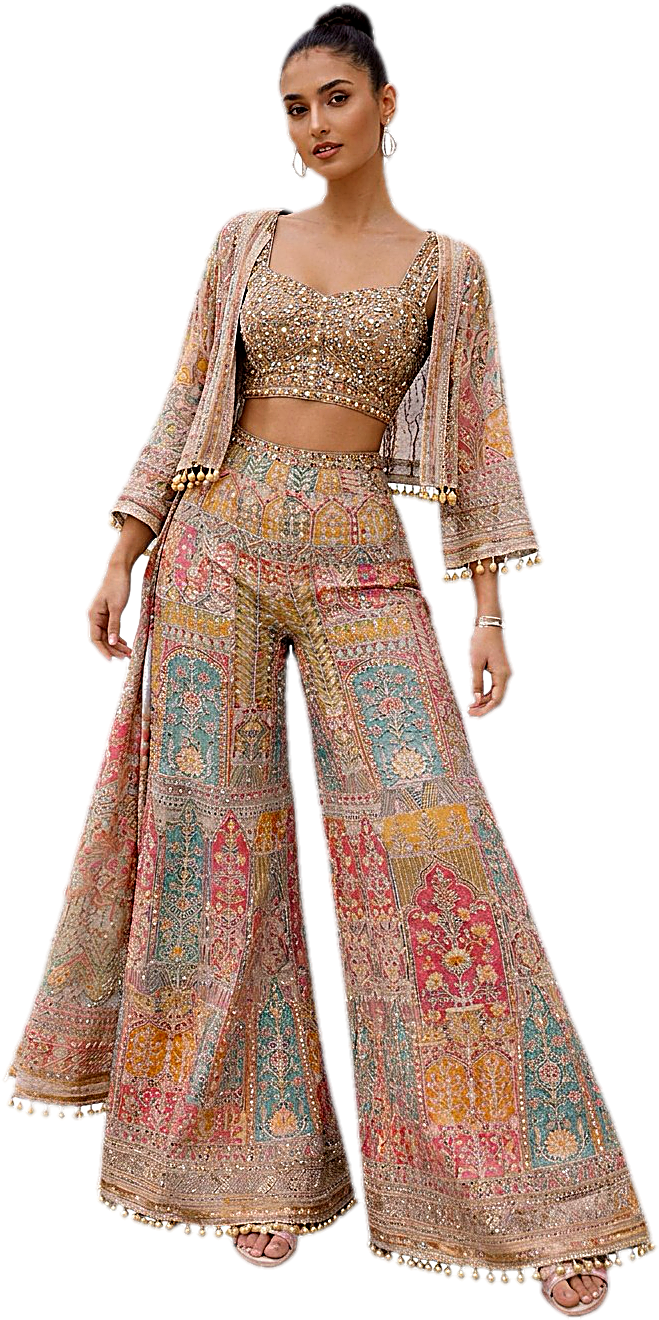
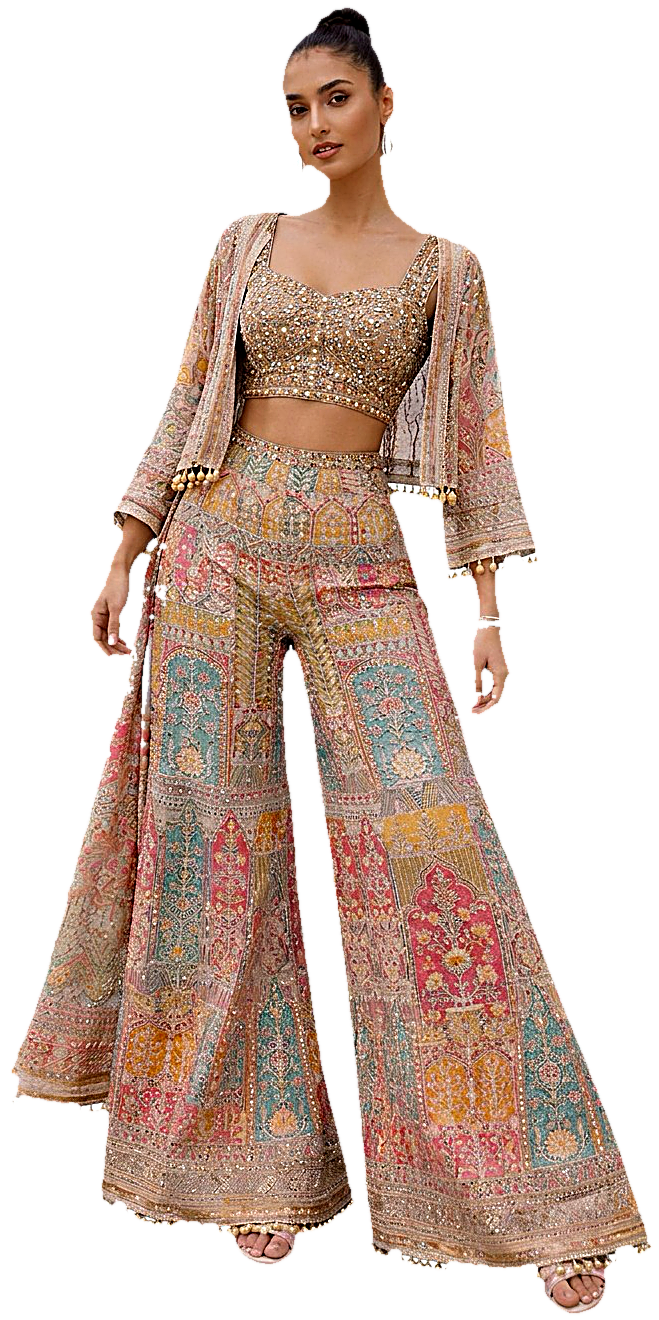
Fashion: clean cutout halos, slow the stroke, quicken the slider
- The style carousel's cut-outs each carried a soft halo of their original
  studio background at near-full alpha, which read as pale vertical bands
  beside the model on a cold load. The mattes were oversized and feathered
  rather than tight to the subject, so the fix is on the alpha: threshold at
  250 and re-feather by a sub-pixel blur. Erosion was tried and rejected —
  even two passes started eating the headphones and drawstrings.
- ScrollStroke's pin runs over 340svh rather than 210, so the line is drawn
  across roughly half again as much scrolling and the tip can be followed.
- LuminaSlider's handover drops from 2.5s to 1.5s.

diff --git a/components/LuminaSlider.js b/components/LuminaSlider.js
@@ -69,7 +69,7 @@ const small = (src) => src.replace(/\.jpg$/, "-sm.jpg");
 /* how long the glass takes to cross the box, and how long a slide is held
    once it has arrived. the pair is the full cycle — the progress line under
    each title runs for the hold only, as in the original. */
-const CROSS_MS = 2500;
+const CROSS_MS = 1500;
 const HOLD_MS = 5000;
 
 /* The glass, at the original's "Default" preset. These are constants rather

diff --git a/components/ScrollStroke.css b/components/ScrollStroke.css
@@ -4,7 +4,7 @@
   position: relative;
   /* the pin lasts for the surplus over one screen: this is the length of the
      passage the line is drawn across */
-  height: 210svh;
+  height: 340svh;
   background: var(--bg);
 }
 
@@ -45,7 +45,7 @@
 }
 
 @media (max-width: 760px) {
-  .sstroke { height: 200svh; }
+  .sstroke { height: 320svh; }
   .sstroke__line { max-width: 12ch; }
 }
 
